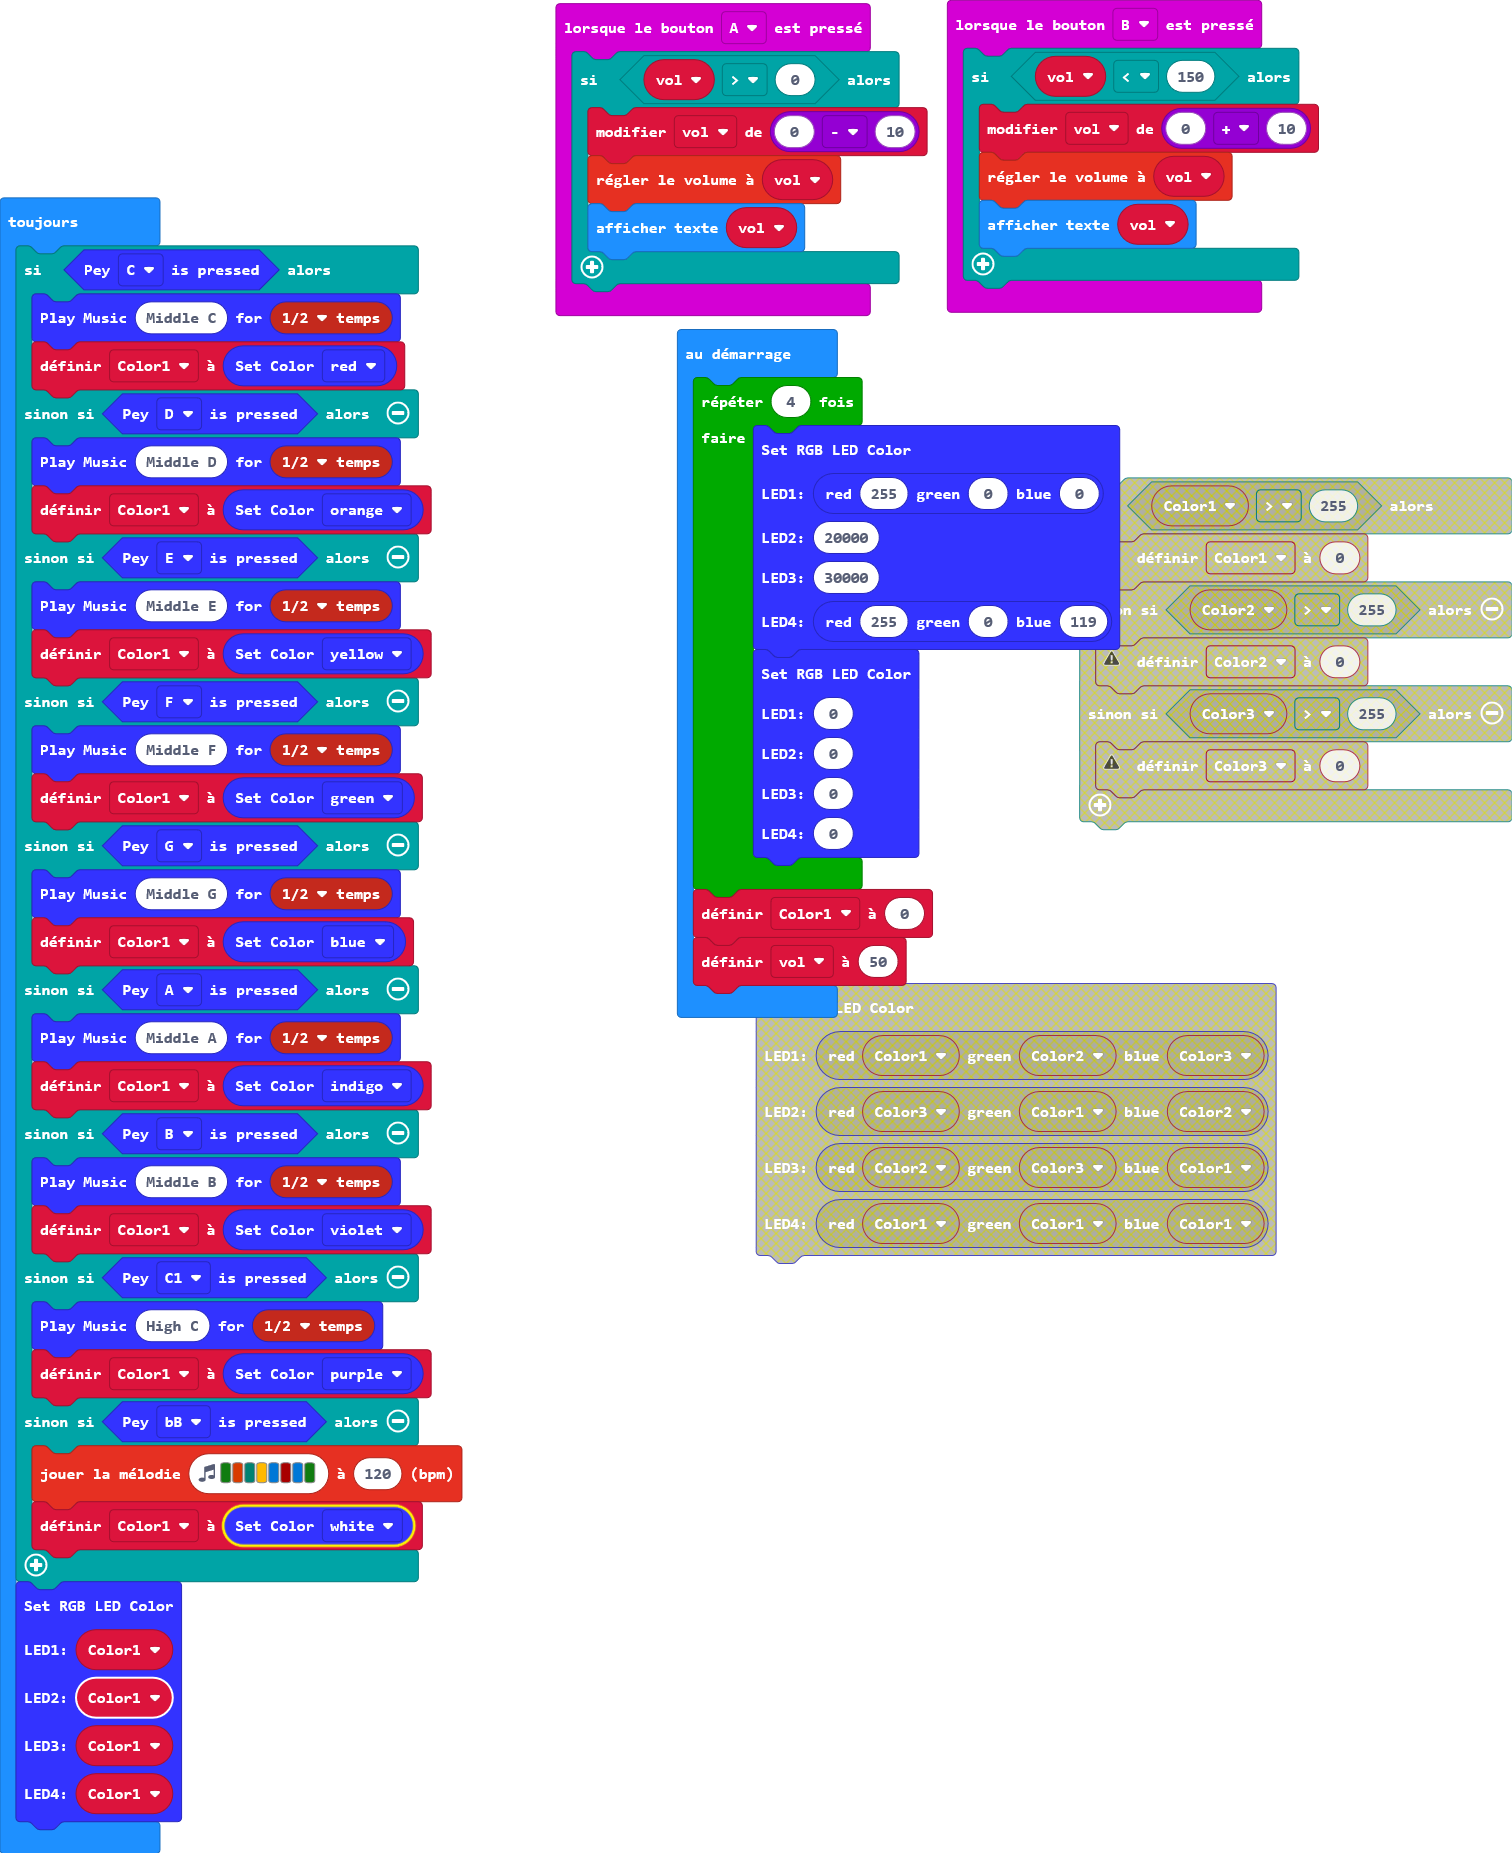
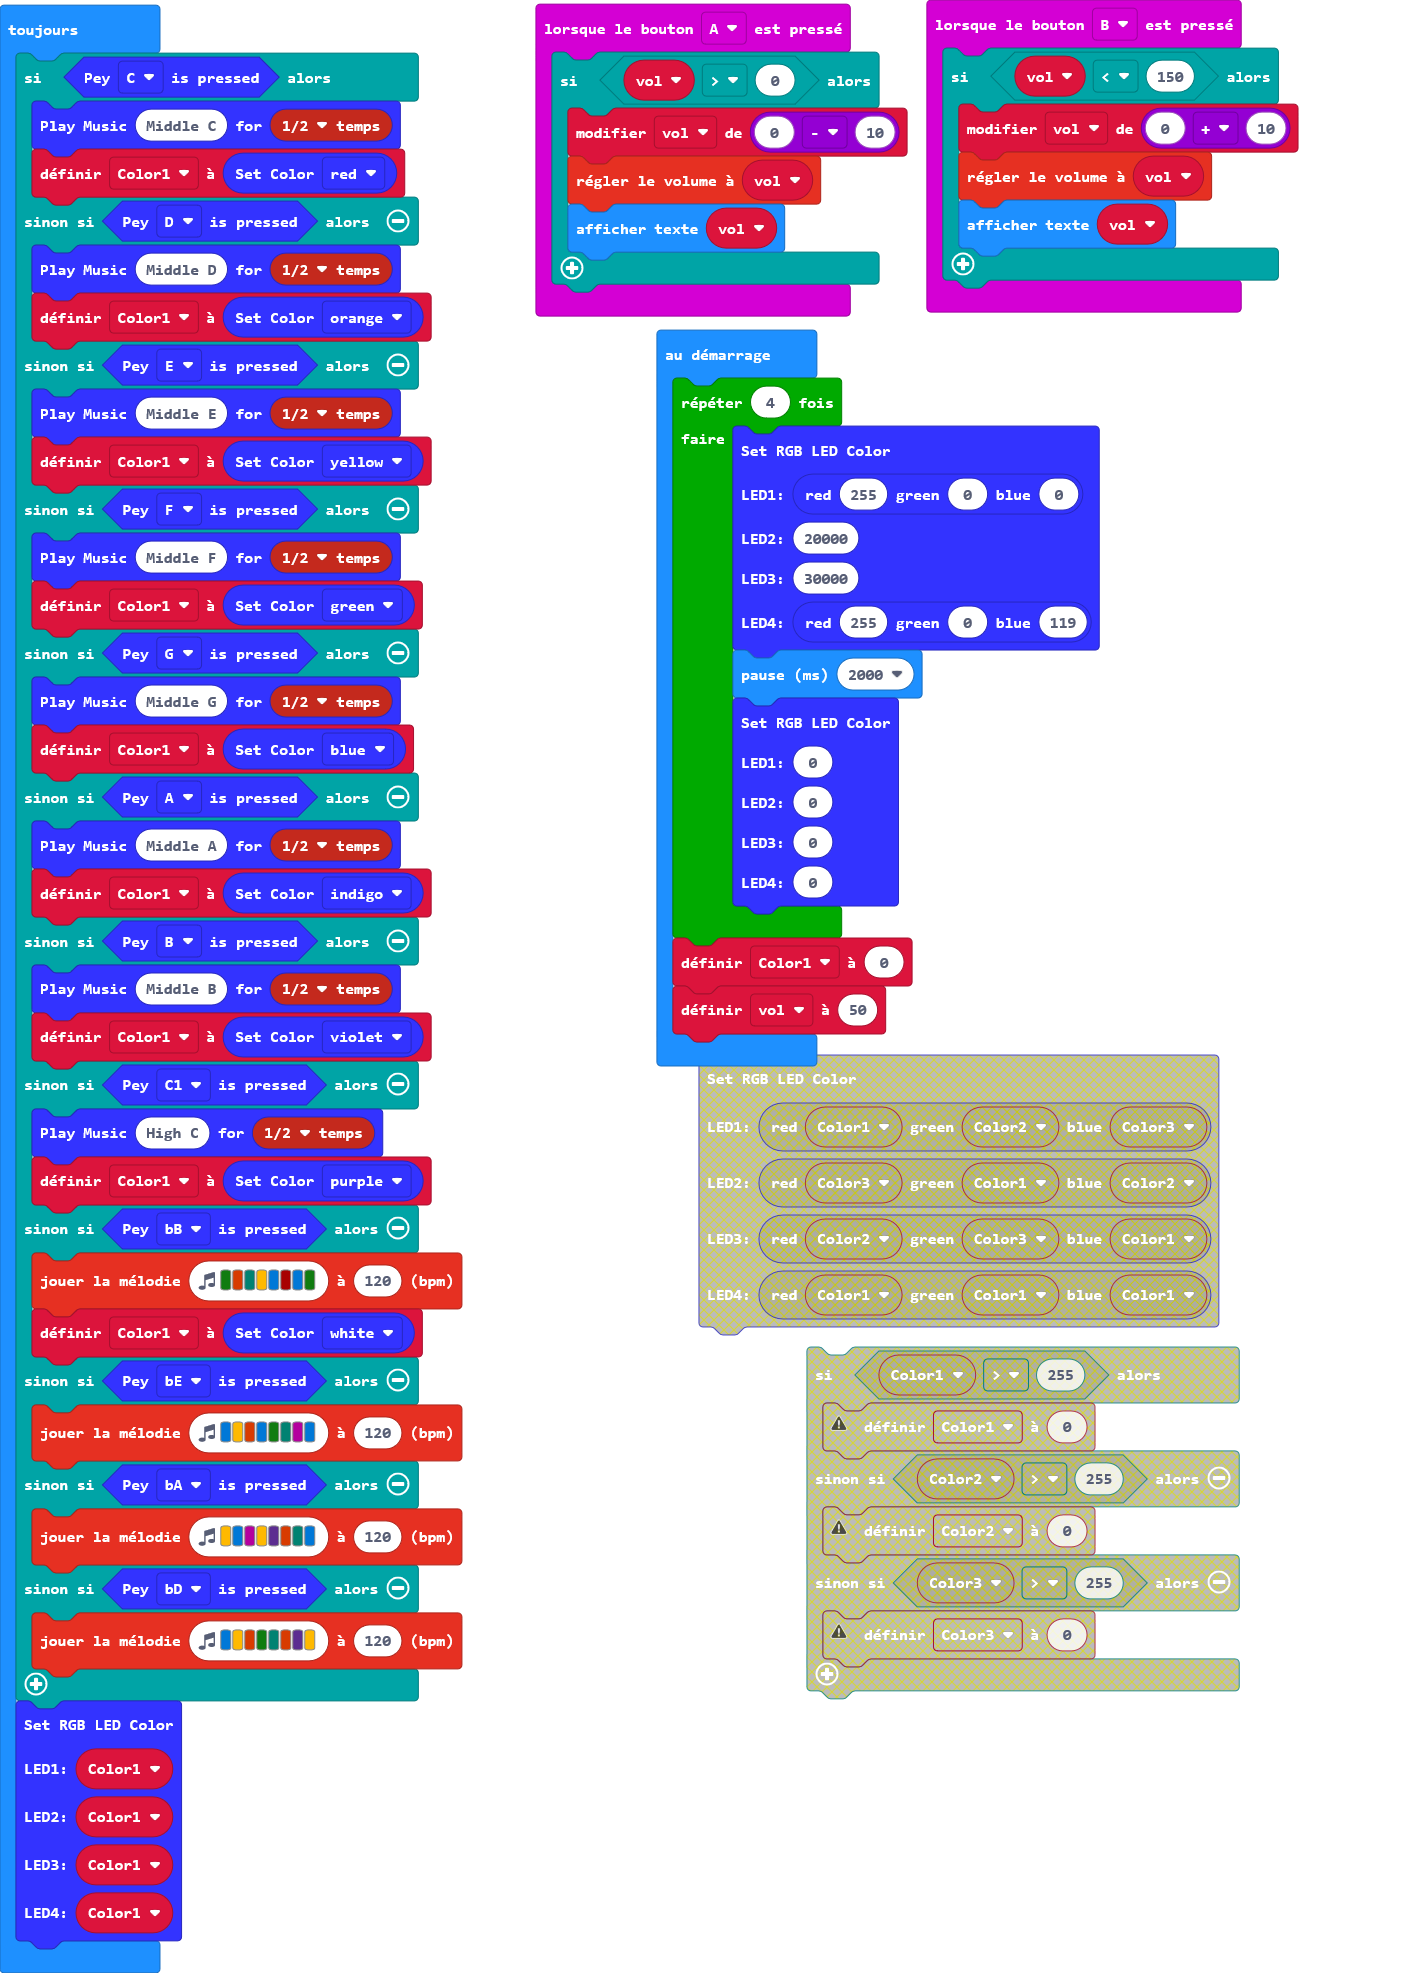
Mise à jour main.blocks, main.ts

diff --git a/main.ts b/main.ts
@@ -20,6 +20,7 @@ for (let index = 0; index < 4; index++) {
     30000,
     WSTouchPiano.TP_SetRGB(255, 0, 119)
     )
+    basic.pause(2000)
     WSTouchPiano.TP_ShowRGB(
     0,
     0,
@@ -57,6 +58,12 @@ basic.forever(function () {
     } else if (WSTouchPiano.TP_Press(TP_PIANO.bB)) {
         music.playMelody("G B F A E C5 E G ", 120)
         Color1 = WSTouchPiano.TP_SetColor(RGB_COLOR.WHITE)
+    } else if (WSTouchPiano.TP_Press(TP_PIANO.bE)) {
+        music.playMelody("E A B E G F C E ", 120)
+    } else if (WSTouchPiano.TP_Press(TP_PIANO.bA)) {
+        music.playMelody("A E C A D B F E ", 120)
+    } else if (WSTouchPiano.TP_Press(TP_PIANO.bD)) {
+        music.playMelody("E A B G F B D A ", 120)
     }
     WSTouchPiano.TP_ShowRGB(
     Color1,
